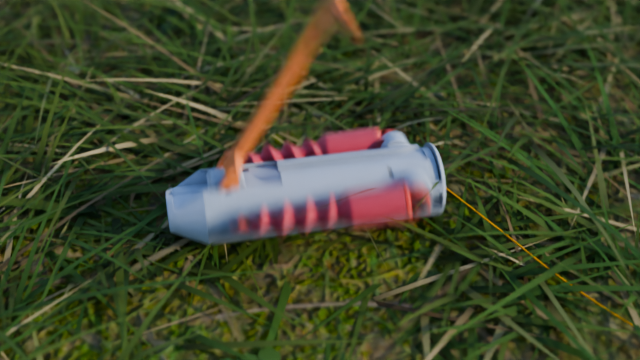
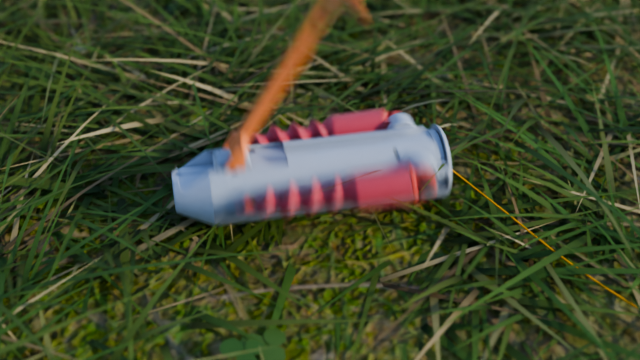
render: final shot previews (Cycles 640x360) and contact sheet, reel shot looks down the line
Claude-Session: https://claude.ai/code/session_01Y9T2MA1da8uJdcpXwDwLHT

diff --git a/render/build.py b/render/build.py
@@ -1179,10 +1179,10 @@ def make_shots(mo, entry=None):
 
     def reel(f):
         v = ease(f, f_taut - 8, f_taut + 75)
-        pos = lerp((-0.52, 0.36, 0.44), (-0.95, 0.26, 0.52), v)
-        tgt = lerp((-0.20, 0.09, 0.24), (2.0, 0.07, 0.10), v)
-        return dict(pos=pos, target=tgt, lens=lerp(40.0, 32.0, v),
-                    focus=lerp((-0.20, 0.09, 0.24), (1.0, 0.08, 0.18), v))
+        far = 0.5 * (rest + np.array([0.4, 0.09, 0.27])) * np.array([1.0, 1.0, 0.0]) + np.array([0.0, 0.0, 0.06])
+        pos = lerp((-0.52, 0.36, 0.44), (-0.80, 0.30, 0.36), v)
+        tgt = lerp((-0.20, 0.09, 0.24), far, v)
+        return dict(pos=pos, target=tgt, lens=lerp(40.0, 50.0, v), focus=lerp((-0.20, 0.09, 0.24), far, v))
 
     def endwide(f):
         u = ease(f, b[10], b[11] + 20)
